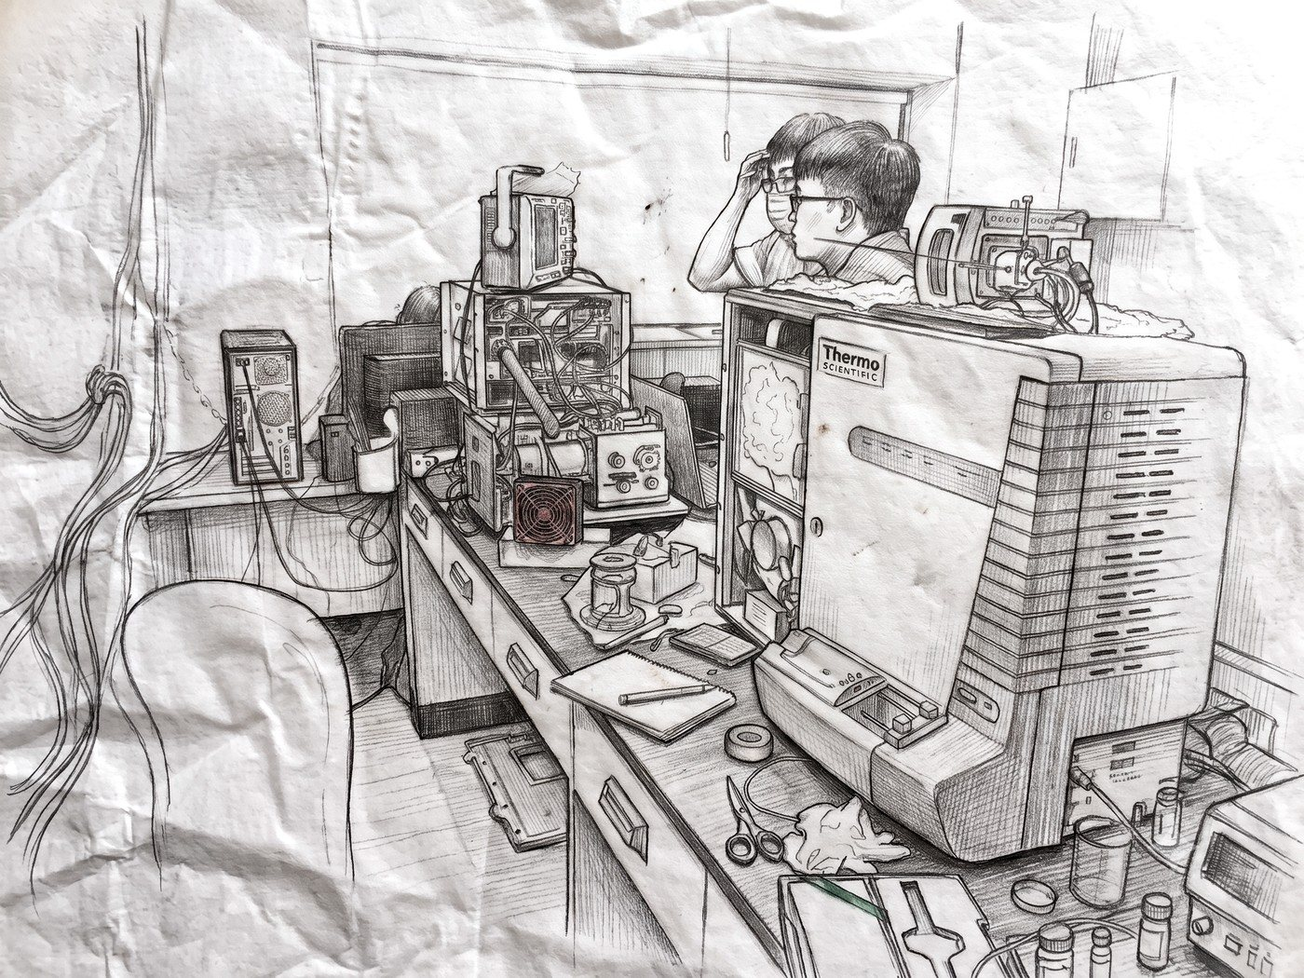
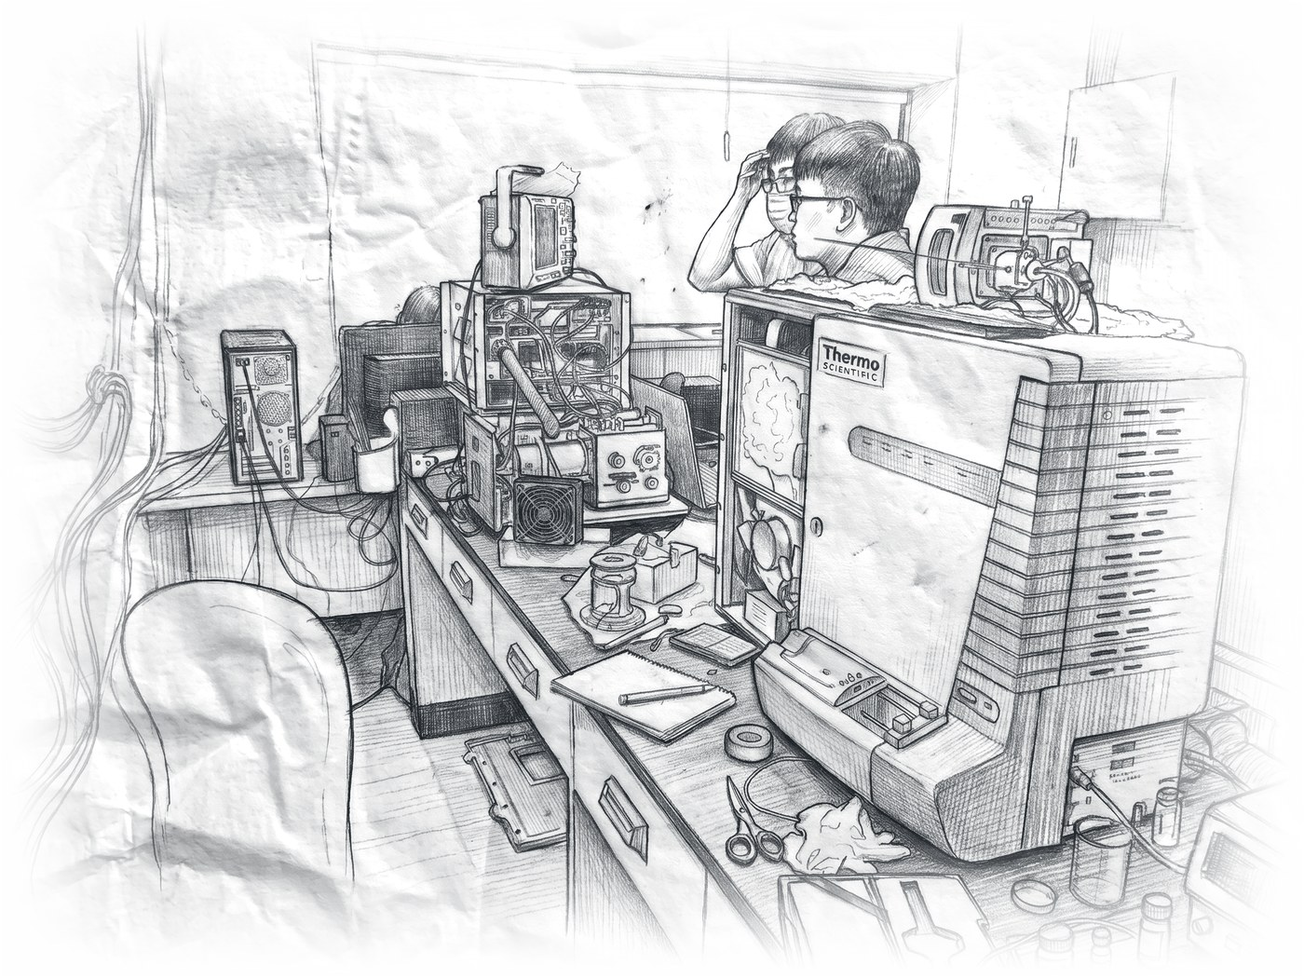
手繪主視覺攤平打光並烘入白色羽化邊；標語改「其它方法」；教學頁加入 YouTube 頻道

diff --git a/teaching.html b/teaching.html
@@ -19,7 +19,7 @@
 <link rel="preconnect" href="https://fonts.googleapis.com">
 <link rel="preconnect" href="https://fonts.gstatic.com" crossorigin>
 <link rel="stylesheet" href="https://fonts.googleapis.com/css2?family=Source+Serif+4:opsz,wght@8..60,400;8..60,600&family=Noto+Serif+TC:wght@500;600&display=swap">
-<link rel="stylesheet" href="assets/css/style.css?v=85617acf">
+<link rel="stylesheet" href="assets/css/style.css?v=cd13632d">
 <link rel="icon" href="assets/img/favicon-32.png" sizes="32x32">
 <link rel="icon" href="assets/img/logo-mark.svg" type="image/svg+xml">
 <link rel="apple-touch-icon" href="assets/img/favicon-180.png">
@@ -43,6 +43,19 @@
   <div class="table-wrap"><table class="courses"><thead><tr><th>Year</th><th>Term</th><th>Course no.</th><th>Course</th><th>Type</th></tr></thead><tbody><tr class="newyear"><td class="yr">115</td><td class="tm">1</td><td class="code">2233</td><td class="cname">Physical Chemistry</td><td><span class="ctype req">Required</span></td></tr><tr><td class="yr"></td><td class="tm">1</td><td class="code">4133</td><td class="cname">Statistical Thermodynamics</td><td><span class="ctype ele">Elective</span></td></tr><tr class="newyear"><td class="yr">114</td><td class="tm">2</td><td class="code">3283</td><td class="cname">Physical Chemistry III</td><td><span class="ctype req">Required</span></td></tr><tr><td class="yr"></td><td class="tm">2</td><td class="code">4129</td><td class="cname">Quantum Chemistry</td><td><span class="ctype ele">Elective</span></td></tr><tr><td class="yr"></td><td class="tm">1</td><td class="code">3270</td><td class="cname">Physical Chemistry II</td><td><span class="ctype req">Required</span></td></tr><tr><td class="yr"></td><td class="tm">1</td><td class="code">4133</td><td class="cname">Statistical Thermodynamics</td><td><span class="ctype ele">Elective</span></td></tr><tr class="newyear"><td class="yr">113</td><td class="tm">2</td><td class="code">1822</td><td class="cname">Physical Chemistry II</td><td><span class="ctype req">Required</span></td></tr><tr><td class="yr"></td><td class="tm">2</td><td class="code">2286</td><td class="cname">Physical Chemistry I</td><td><span class="ctype req">Required</span></td></tr><tr><td class="yr"></td><td class="tm">2</td><td class="code">4129</td><td class="cname">Quantum Chemistry</td><td><span class="ctype ele">Elective</span></td></tr><tr><td class="yr"></td><td class="tm">1</td><td class="code">1171</td><td class="cname">General Chemistry</td><td><span class="ctype req">Required</span></td></tr><tr><td class="yr"></td><td class="tm">1</td><td class="code">2248</td><td class="cname">Mathematics for Chemists</td><td><span class="ctype req">Required</span></td></tr><tr><td class="yr"></td><td class="tm">1</td><td class="code">6529</td><td class="cname">Advanced Physical Chemistry</td><td><span class="ctype ele">Elective</span></td></tr><tr class="newyear"><td class="yr">112</td><td class="tm">2</td><td class="code">2281</td><td class="cname">Physical Chemistry</td><td><span class="ctype req">Required</span></td></tr><tr><td class="yr"></td><td class="tm">2</td><td class="code">4001</td><td class="cname">Industrial Chemistry</td><td><span class="ctype ele">Elective</span></td></tr><tr><td class="yr"></td><td class="tm">2</td><td class="code">4129</td><td class="cname">Quantum Chemistry</td><td><span class="ctype ele">Elective</span></td></tr><tr><td class="yr"></td><td class="tm">1</td><td class="code">2233</td><td class="cname">Physical Chemistry</td><td><span class="ctype req">Required</span></td></tr><tr><td class="yr"></td><td class="tm">1</td><td class="code">4120</td><td class="cname">Statistical Thermodynamics</td><td><span class="ctype ele">Elective</span></td></tr><tr><td class="yr"></td><td class="tm">1</td><td class="code">6529</td><td class="cname">Advanced Physical Chemistry</td><td><span class="ctype ele">Elective</span></td></tr><tr class="newyear"><td class="yr">111</td><td class="tm">2</td><td class="code">3283</td><td class="cname">Physical Chemistry III</td><td><span class="ctype req">Required</span></td></tr><tr><td class="yr"></td><td class="tm">2</td><td class="code">4129</td><td class="cname">Quantum Chemistry</td><td><span class="ctype ele">Elective</span></td></tr><tr><td class="yr"></td><td class="tm">1</td><td class="code">3270</td><td class="cname">Physical Chemistry II</td><td><span class="ctype req">Required</span></td></tr><tr><td class="yr"></td><td class="tm">1</td><td class="code">4120</td><td class="cname">Statistical Thermodynamics</td><td><span class="ctype ele">Elective</span></td></tr><tr><td class="yr"></td><td class="tm">1</td><td class="code">6529</td><td class="cname">Advanced Physical Chemistry</td><td><span class="ctype ele">Elective</span></td></tr></tbody></table></div>
   <p class="sec-note" style="margin-top:14px">Academic years are given in the Republic of China calendar used by Taiwanese universities; year 114 corresponds to 2025–26. Laboratory courses and independent-study units are not listed.</p>
 </section>
+<section>
+  <h2>Physical chemistry on YouTube</h2>
+  <div class="yt">
+    <a class="yt-logo" href="https://www.youtube.com/@PChem" aria-label="狐獴老師的物化課 (Meerkat Teacher&#x27;s Physical Chemistry)">
+      <svg viewBox="0 0 24 24" aria-hidden="true"><path d="M23 12s0-3.6-.5-5.3a2.8 2.8 0 0 0-2-2C18.8 4.2 12 4.2 12 4.2s-6.8 0-8.5.5a2.8 2.8 0 0 0-2 2C1 8.4 1 12 1 12s0 3.6.5 5.3a2.8 2.8 0 0 0 2 2c1.7.5 8.5.5 8.5.5s6.8 0 8.5-.5a2.8 2.8 0 0 0 2-2C23 15.6 23 12 23 12z"/><path d="M9.8 15.4V8.6l5.9 3.4z" fill="#fff"/></svg>
+    </a>
+    <div>
+      <h3>狐獴老師的物化課 (Meerkat Teacher&#x27;s Physical Chemistry)</h3>
+      <p>A Mandarin-language channel where I work through physical chemistry: thermodynamics, kinetics, quantum chemistry, and the mathematics behind them. The aim is to make the subject feel less like scripture and more like a way of moving between the abstract and the real.</p>
+      <p><a class="cta" href="https://www.youtube.com/@PChem">Visit the channel →</a></p>
+    </div>
+  </div>
+</section>
 <section><h2>Teaching awards</h2><ul class="grants"><li><span class="g-title">Outstanding Mentor Award, NCHU</span><div class="g-id">2024</div></li><li><span class="g-title">Distinguished Teaching Award, NCHU</span><div class="g-id">2021</div></li></ul></section>
 </div>
 </main>
@@ -51,7 +64,7 @@
   <p>Office: Room 508, Chemistry Building · Laboratory: Room 102, Chemistry Building</p>
   <p><a href="mailto:iclu@nchu.edu.tw">iclu@nchu.edu.tw</a> ·
      Tel +886-4-2284-0411 ext. 508</p>
-  <p>Last updated 2026-07-26 ·
+  <p>Last updated 2026-07-27 ·
      <a href="https://github.com/iclulab/iclulab.github.io">Source</a></p>
 </div></footer>
 </body>

diff --git a/zh/teaching.html b/zh/teaching.html
@@ -19,7 +19,7 @@
 <link rel="preconnect" href="https://fonts.googleapis.com">
 <link rel="preconnect" href="https://fonts.gstatic.com" crossorigin>
 <link rel="stylesheet" href="https://fonts.googleapis.com/css2?family=Source+Serif+4:opsz,wght@8..60,400;8..60,600&family=Noto+Serif+TC:wght@500;600&display=swap">
-<link rel="stylesheet" href="../assets/css/style.css?v=85617acf">
+<link rel="stylesheet" href="../assets/css/style.css?v=cd13632d">
 <link rel="icon" href="../assets/img/favicon-32.png" sizes="32x32">
 <link rel="icon" href="../assets/img/logo-mark.svg" type="image/svg+xml">
 <link rel="apple-touch-icon" href="../assets/img/favicon-180.png">
@@ -43,6 +43,19 @@
   <div class="table-wrap"><table class="courses"><thead><tr><th>學年</th><th>學期</th><th>選課號碼</th><th>課程名稱</th><th>必選修</th></tr></thead><tbody><tr class="newyear"><td class="yr">115</td><td class="tm">1</td><td class="code">2233</td><td class="cname">物理化學</td><td><span class="ctype req">必修</span></td></tr><tr><td class="yr"></td><td class="tm">1</td><td class="code">4133</td><td class="cname">統計熱力學</td><td><span class="ctype ele">選修</span></td></tr><tr class="newyear"><td class="yr">114</td><td class="tm">2</td><td class="code">3283</td><td class="cname">物理化學（三）</td><td><span class="ctype req">必修</span></td></tr><tr><td class="yr"></td><td class="tm">2</td><td class="code">4129</td><td class="cname">量子化學</td><td><span class="ctype ele">選修</span></td></tr><tr><td class="yr"></td><td class="tm">1</td><td class="code">3270</td><td class="cname">物理化學（二）</td><td><span class="ctype req">必修</span></td></tr><tr><td class="yr"></td><td class="tm">1</td><td class="code">4133</td><td class="cname">統計熱力學</td><td><span class="ctype ele">選修</span></td></tr><tr class="newyear"><td class="yr">113</td><td class="tm">2</td><td class="code">1822</td><td class="cname">物理化學（二）</td><td><span class="ctype req">必修</span></td></tr><tr><td class="yr"></td><td class="tm">2</td><td class="code">2286</td><td class="cname">物理化學（一）</td><td><span class="ctype req">必修</span></td></tr><tr><td class="yr"></td><td class="tm">2</td><td class="code">4129</td><td class="cname">量子化學</td><td><span class="ctype ele">選修</span></td></tr><tr><td class="yr"></td><td class="tm">1</td><td class="code">1171</td><td class="cname">普通化學</td><td><span class="ctype req">必修</span></td></tr><tr><td class="yr"></td><td class="tm">1</td><td class="code">2248</td><td class="cname">化學數學</td><td><span class="ctype req">必修</span></td></tr><tr><td class="yr"></td><td class="tm">1</td><td class="code">6529</td><td class="cname">高等物理化學</td><td><span class="ctype ele">選修</span></td></tr><tr class="newyear"><td class="yr">112</td><td class="tm">2</td><td class="code">2281</td><td class="cname">物理化學</td><td><span class="ctype req">必修</span></td></tr><tr><td class="yr"></td><td class="tm">2</td><td class="code">4001</td><td class="cname">工業化學</td><td><span class="ctype ele">選修</span></td></tr><tr><td class="yr"></td><td class="tm">2</td><td class="code">4129</td><td class="cname">量子化學</td><td><span class="ctype ele">選修</span></td></tr><tr><td class="yr"></td><td class="tm">1</td><td class="code">2233</td><td class="cname">物理化學</td><td><span class="ctype req">必修</span></td></tr><tr><td class="yr"></td><td class="tm">1</td><td class="code">4120</td><td class="cname">統計熱力學</td><td><span class="ctype ele">選修</span></td></tr><tr><td class="yr"></td><td class="tm">1</td><td class="code">6529</td><td class="cname">高等物理化學</td><td><span class="ctype ele">選修</span></td></tr><tr class="newyear"><td class="yr">111</td><td class="tm">2</td><td class="code">3283</td><td class="cname">物理化學（三）</td><td><span class="ctype req">必修</span></td></tr><tr><td class="yr"></td><td class="tm">2</td><td class="code">4129</td><td class="cname">量子化學</td><td><span class="ctype ele">選修</span></td></tr><tr><td class="yr"></td><td class="tm">1</td><td class="code">3270</td><td class="cname">物理化學（二）</td><td><span class="ctype req">必修</span></td></tr><tr><td class="yr"></td><td class="tm">1</td><td class="code">4120</td><td class="cname">統計熱力學</td><td><span class="ctype ele">選修</span></td></tr><tr><td class="yr"></td><td class="tm">1</td><td class="code">6529</td><td class="cname">高等物理化學</td><td><span class="ctype ele">選修</span></td></tr></tbody></table></div>
   <p class="sec-note" style="margin-top:14px">不含實驗課與專題研究。</p>
 </section>
+<section>
+  <h2>YouTube 教學頻道</h2>
+  <div class="yt">
+    <a class="yt-logo" href="https://www.youtube.com/@PChem" aria-label="狐獴老師的物化課">
+      <svg viewBox="0 0 24 24" aria-hidden="true"><path d="M23 12s0-3.6-.5-5.3a2.8 2.8 0 0 0-2-2C18.8 4.2 12 4.2 12 4.2s-6.8 0-8.5.5a2.8 2.8 0 0 0-2 2C1 8.4 1 12 1 12s0 3.6.5 5.3a2.8 2.8 0 0 0 2 2c1.7.5 8.5.5 8.5.5s6.8 0 8.5-.5a2.8 2.8 0 0 0 2-2C23 15.6 23 12 23 12z"/><path d="M9.8 15.4V8.6l5.9 3.4z" fill="#fff"/></svg>
+    </a>
+    <div>
+      <h3>狐獴老師的物化課</h3>
+      <p>物化不該是天書，而是我們穿梭在抽象與現實間的華麗冒險。頻道內容涵蓋熱力學、動力學、量子化學與化學數學，把課堂上講不完的推導與直觀，用影片重新講一次。</p>
+      <p><a class="cta" href="https://www.youtube.com/@PChem">前往頻道 →</a></p>
+    </div>
+  </div>
+</section>
 <section><h2>教學獲獎</h2><ul class="grants"><li><span class="g-title">國立中興大學特優導師（112 學年度）</span><div class="g-id">2024</div></li><li><span class="g-title">國立中興大學教學特優獎（110 學年度）</span><div class="g-id">2021</div></li></ul></section>
 </div>
 </main>
@@ -51,7 +64,7 @@
   <p>辦公室：化學館 508 室 · 實驗室：化學館 102 室</p>
   <p><a href="mailto:iclu@nchu.edu.tw">iclu@nchu.edu.tw</a> ·
      Tel +886-4-2284-0411 ext. 508</p>
-  <p>最後更新 2026-07-26 ·
+  <p>最後更新 2026-07-27 ·
      <a href="https://github.com/iclulab/iclulab.github.io">原始碼</a></p>
 </div></footer>
 </body>

diff --git a/zh/index.html b/zh/index.html
@@ -19,7 +19,7 @@
 <link rel="preconnect" href="https://fonts.googleapis.com">
 <link rel="preconnect" href="https://fonts.gstatic.com" crossorigin>
 <link rel="stylesheet" href="https://fonts.googleapis.com/css2?family=Source+Serif+4:opsz,wght@8..60,400;8..60,600&family=Noto+Serif+TC:wght@500;600&display=swap">
-<link rel="stylesheet" href="../assets/css/style.css?v=85617acf">
+<link rel="stylesheet" href="../assets/css/style.css?v=cd13632d">
 <link rel="icon" href="../assets/img/favicon-32.png" sizes="32x32">
 <link rel="icon" href="../assets/img/logo-mark.svg" type="image/svg+xml">
 <link rel="apple-touch-icon" href="../assets/img/favicon-180.png">
@@ -38,7 +38,7 @@
   <div class="wrap"><div class="home-grid">
     <div>
       <p class="eyebrow">盧臆中實驗室 · 國立中興大學化學系</p>
-      <h1 class="claim">用質譜看見<br>別的方法看不見的世界</h1>
+      <h1 class="claim">用質譜看見<br>其它方法看不見的世界</h1>
       <p class="claim-lede">我們從一個基礎問題出發：離子究竟是怎麼生成的？再把這份理解變成能碰到真實問題的量測能力，包括醣類的快速篩檢、塑膠的智慧分選，以及催化循環中一閃即逝的中間體。</p>
       <div class="cta-row">
         <a class="cta" href="research.html">我們在做什麼 →</a>
@@ -46,7 +46,7 @@
       </div>
     </div>
     <figure class="hero-shot">
-      <img src="../assets/img/hero.jpg?v=ecc005bf" alt="光學桌上的客製化質譜進樣系統">
+      <img src="../assets/img/hero.jpg?v=6dc2c8fa" alt="光學桌上的客製化質譜進樣系統">
     </figure>
   </div></div>
 </div>
@@ -131,7 +131,7 @@
   <p>辦公室：化學館 508 室 · 實驗室：化學館 102 室</p>
   <p><a href="mailto:iclu@nchu.edu.tw">iclu@nchu.edu.tw</a> ·
      Tel +886-4-2284-0411 ext. 508</p>
-  <p>最後更新 2026-07-26 ·
+  <p>最後更新 2026-07-27 ·
      <a href="https://github.com/iclulab/iclulab.github.io">原始碼</a></p>
 </div></footer>
 </body>

diff --git a/assets/css/style.css b/assets/css/style.css
@@ -137,13 +137,15 @@ nav.main a.lang:hover {
 .page-hero .hero-spectrum { height: 84px; opacity: .13; }
 /* 主視覺是實驗室的鉛筆手繪（已把紙張黃調校回近白）。邊緣用遮罩淡出成頁面底色，
    紙的白與頁面的白接在一起，不會像一張圖貼在版面上。 */
+/* 圖檔本身已把四邊烘成純白羽化，所以這裡不再加遮罩，
+   只留一層很淡的收邊，避免縮放時邊界重新浮現。 */
 .hero-shot { margin: 0; }
 .hero-shot img {
   display: block; width: 100%; aspect-ratio: 4 / 3; object-fit: cover;
   -webkit-mask-image:
-    radial-gradient(120% 120% at 50% 48%, #000 50%, rgba(0, 0, 0, .55) 78%, transparent 100%);
+    radial-gradient(135% 135% at 50% 50%, #000 72%, transparent 100%);
   mask-image:
-    radial-gradient(120% 120% at 50% 48%, #000 50%, rgba(0, 0, 0, .55) 78%, transparent 100%);
+    radial-gradient(135% 135% at 50% 50%, #000 72%, transparent 100%);
 }
 @media (prefers-color-scheme: dark) {
   /* 手繪是白底，深色模式反相成白線黑底才不會變成一塊亮白 */
@@ -369,6 +371,14 @@ ul.grants .g-zh { font-size: 0.9rem; color: var(--ink-soft); }
 .lb-prev, .lb-next { top: 50%; transform: translateY(-50%); font-size: 3rem; }
 .lb-prev { left: 6px; }
 .lb-next { right: 6px; }
+
+/* ---------- YouTube 頻道 ---------- */
+.yt { display: grid; grid-template-columns: 56px 1fr; gap: 20px; align-items: start; }
+.yt-logo { display: block; line-height: 0; }
+.yt-logo svg { width: 56px; height: 56px; fill: #ff0033; }
+.yt-logo:hover svg { fill: #d4002a; }
+.yt h3 { margin-bottom: 6px; }
+.yt p { margin-bottom: 12px; }
 
 /* ---------- 開課紀錄表 ---------- */
 .table-wrap { overflow-x: auto; -webkit-overflow-scrolling: touch; }

diff --git a/index.html b/index.html
@@ -19,7 +19,7 @@
 <link rel="preconnect" href="https://fonts.googleapis.com">
 <link rel="preconnect" href="https://fonts.gstatic.com" crossorigin>
 <link rel="stylesheet" href="https://fonts.googleapis.com/css2?family=Source+Serif+4:opsz,wght@8..60,400;8..60,600&family=Noto+Serif+TC:wght@500;600&display=swap">
-<link rel="stylesheet" href="assets/css/style.css?v=85617acf">
+<link rel="stylesheet" href="assets/css/style.css?v=cd13632d">
 <link rel="icon" href="assets/img/favicon-32.png" sizes="32x32">
 <link rel="icon" href="assets/img/logo-mark.svg" type="image/svg+xml">
 <link rel="apple-touch-icon" href="assets/img/favicon-180.png">
@@ -46,7 +46,7 @@
       </div>
     </div>
     <figure class="hero-shot">
-      <img src="assets/img/hero.jpg?v=ecc005bf" alt="Custom-built mass spectrometry inlet on the optical table">
+      <img src="assets/img/hero.jpg?v=6dc2c8fa" alt="Custom-built mass spectrometry inlet on the optical table">
     </figure>
   </div></div>
 </div>
@@ -131,7 +131,7 @@
   <p>Office: Room 508, Chemistry Building · Laboratory: Room 102, Chemistry Building</p>
   <p><a href="mailto:iclu@nchu.edu.tw">iclu@nchu.edu.tw</a> ·
      Tel +886-4-2284-0411 ext. 508</p>
-  <p>Last updated 2026-07-26 ·
+  <p>Last updated 2026-07-27 ·
      <a href="https://github.com/iclulab/iclulab.github.io">Source</a></p>
 </div></footer>
 </body>

diff --git a/publications.html b/publications.html
@@ -19,7 +19,7 @@
 <link rel="preconnect" href="https://fonts.googleapis.com">
 <link rel="preconnect" href="https://fonts.gstatic.com" crossorigin>
 <link rel="stylesheet" href="https://fonts.googleapis.com/css2?family=Source+Serif+4:opsz,wght@8..60,400;8..60,600&family=Noto+Serif+TC:wght@500;600&display=swap">
-<link rel="stylesheet" href="assets/css/style.css?v=85617acf">
+<link rel="stylesheet" href="assets/css/style.css?v=cd13632d">
 <link rel="icon" href="assets/img/favicon-32.png" sizes="32x32">
 <link rel="icon" href="assets/img/logo-mark.svg" type="image/svg+xml">
 <link rel="apple-touch-icon" href="assets/img/favicon-180.png">
@@ -418,7 +418,7 @@ document.querySelectorAll('.filters button').forEach(b => b.addEventListener('cl
   <p>Office: Room 508, Chemistry Building · Laboratory: Room 102, Chemistry Building</p>
   <p><a href="mailto:iclu@nchu.edu.tw">iclu@nchu.edu.tw</a> ·
      Tel +886-4-2284-0411 ext. 508</p>
-  <p>Last updated 2026-07-26 ·
+  <p>Last updated 2026-07-27 ·
      <a href="https://github.com/iclulab/iclulab.github.io">Source</a></p>
 </div></footer>
 </body>

diff --git a/zh/publications.html b/zh/publications.html
@@ -19,7 +19,7 @@
 <link rel="preconnect" href="https://fonts.googleapis.com">
 <link rel="preconnect" href="https://fonts.gstatic.com" crossorigin>
 <link rel="stylesheet" href="https://fonts.googleapis.com/css2?family=Source+Serif+4:opsz,wght@8..60,400;8..60,600&family=Noto+Serif+TC:wght@500;600&display=swap">
-<link rel="stylesheet" href="../assets/css/style.css?v=85617acf">
+<link rel="stylesheet" href="../assets/css/style.css?v=cd13632d">
 <link rel="icon" href="../assets/img/favicon-32.png" sizes="32x32">
 <link rel="icon" href="../assets/img/logo-mark.svg" type="image/svg+xml">
 <link rel="apple-touch-icon" href="../assets/img/favicon-180.png">
@@ -418,7 +418,7 @@ document.querySelectorAll('.filters button').forEach(b => b.addEventListener('cl
   <p>辦公室：化學館 508 室 · 實驗室：化學館 102 室</p>
   <p><a href="mailto:iclu@nchu.edu.tw">iclu@nchu.edu.tw</a> ·
      Tel +886-4-2284-0411 ext. 508</p>
-  <p>最後更新 2026-07-26 ·
+  <p>最後更新 2026-07-27 ·
      <a href="https://github.com/iclulab/iclulab.github.io">原始碼</a></p>
 </div></footer>
 </body>

diff --git a/life.html b/life.html
@@ -19,7 +19,7 @@
 <link rel="preconnect" href="https://fonts.googleapis.com">
 <link rel="preconnect" href="https://fonts.gstatic.com" crossorigin>
 <link rel="stylesheet" href="https://fonts.googleapis.com/css2?family=Source+Serif+4:opsz,wght@8..60,400;8..60,600&family=Noto+Serif+TC:wght@500;600&display=swap">
-<link rel="stylesheet" href="assets/css/style.css?v=85617acf">
+<link rel="stylesheet" href="assets/css/style.css?v=cd13632d">
 <link rel="icon" href="assets/img/favicon-32.png" sizes="32x32">
 <link rel="icon" href="assets/img/logo-mark.svg" type="image/svg+xml">
 <link rel="apple-touch-icon" href="assets/img/favicon-180.png">
@@ -138,7 +138,7 @@
   <p>Office: Room 508, Chemistry Building · Laboratory: Room 102, Chemistry Building</p>
   <p><a href="mailto:iclu@nchu.edu.tw">iclu@nchu.edu.tw</a> ·
      Tel +886-4-2284-0411 ext. 508</p>
-  <p>Last updated 2026-07-26 ·
+  <p>Last updated 2026-07-27 ·
      <a href="https://github.com/iclulab/iclulab.github.io">Source</a></p>
 </div></footer>
 </body>

diff --git a/research.html b/research.html
@@ -19,7 +19,7 @@
 <link rel="preconnect" href="https://fonts.googleapis.com">
 <link rel="preconnect" href="https://fonts.gstatic.com" crossorigin>
 <link rel="stylesheet" href="https://fonts.googleapis.com/css2?family=Source+Serif+4:opsz,wght@8..60,400;8..60,600&family=Noto+Serif+TC:wght@500;600&display=swap">
-<link rel="stylesheet" href="assets/css/style.css?v=85617acf">
+<link rel="stylesheet" href="assets/css/style.css?v=cd13632d">
 <link rel="icon" href="assets/img/favicon-32.png" sizes="32x32">
 <link rel="icon" href="assets/img/logo-mark.svg" type="image/svg+xml">
 <link rel="apple-touch-icon" href="assets/img/favicon-180.png">
@@ -109,7 +109,7 @@
   <p>Office: Room 508, Chemistry Building · Laboratory: Room 102, Chemistry Building</p>
   <p><a href="mailto:iclu@nchu.edu.tw">iclu@nchu.edu.tw</a> ·
      Tel +886-4-2284-0411 ext. 508</p>
-  <p>Last updated 2026-07-26 ·
+  <p>Last updated 2026-07-27 ·
      <a href="https://github.com/iclulab/iclulab.github.io">Source</a></p>
 </div></footer>
 </body>

diff --git a/zh/life.html b/zh/life.html
@@ -19,7 +19,7 @@
 <link rel="preconnect" href="https://fonts.googleapis.com">
 <link rel="preconnect" href="https://fonts.gstatic.com" crossorigin>
 <link rel="stylesheet" href="https://fonts.googleapis.com/css2?family=Source+Serif+4:opsz,wght@8..60,400;8..60,600&family=Noto+Serif+TC:wght@500;600&display=swap">
-<link rel="stylesheet" href="../assets/css/style.css?v=85617acf">
+<link rel="stylesheet" href="../assets/css/style.css?v=cd13632d">
 <link rel="icon" href="../assets/img/favicon-32.png" sizes="32x32">
 <link rel="icon" href="../assets/img/logo-mark.svg" type="image/svg+xml">
 <link rel="apple-touch-icon" href="../assets/img/favicon-180.png">
@@ -138,7 +138,7 @@
   <p>辦公室：化學館 508 室 · 實驗室：化學館 102 室</p>
   <p><a href="mailto:iclu@nchu.edu.tw">iclu@nchu.edu.tw</a> ·
      Tel +886-4-2284-0411 ext. 508</p>
-  <p>最後更新 2026-07-26 ·
+  <p>最後更新 2026-07-27 ·
      <a href="https://github.com/iclulab/iclulab.github.io">原始碼</a></p>
 </div></footer>
 </body>

diff --git a/zh/research.html b/zh/research.html
@@ -19,7 +19,7 @@
 <link rel="preconnect" href="https://fonts.googleapis.com">
 <link rel="preconnect" href="https://fonts.gstatic.com" crossorigin>
 <link rel="stylesheet" href="https://fonts.googleapis.com/css2?family=Source+Serif+4:opsz,wght@8..60,400;8..60,600&family=Noto+Serif+TC:wght@500;600&display=swap">
-<link rel="stylesheet" href="../assets/css/style.css?v=85617acf">
+<link rel="stylesheet" href="../assets/css/style.css?v=cd13632d">
 <link rel="icon" href="../assets/img/favicon-32.png" sizes="32x32">
 <link rel="icon" href="../assets/img/logo-mark.svg" type="image/svg+xml">
 <link rel="apple-touch-icon" href="../assets/img/favicon-180.png">
@@ -109,7 +109,7 @@
   <p>辦公室：化學館 508 室 · 實驗室：化學館 102 室</p>
   <p><a href="mailto:iclu@nchu.edu.tw">iclu@nchu.edu.tw</a> ·
      Tel +886-4-2284-0411 ext. 508</p>
-  <p>最後更新 2026-07-26 ·
+  <p>最後更新 2026-07-27 ·
      <a href="https://github.com/iclulab/iclulab.github.io">原始碼</a></p>
 </div></footer>
 </body>

diff --git a/404.html b/404.html
@@ -19,7 +19,7 @@
 <link rel="preconnect" href="https://fonts.googleapis.com">
 <link rel="preconnect" href="https://fonts.gstatic.com" crossorigin>
 <link rel="stylesheet" href="https://fonts.googleapis.com/css2?family=Source+Serif+4:opsz,wght@8..60,400;8..60,600&family=Noto+Serif+TC:wght@500;600&display=swap">
-<link rel="stylesheet" href="assets/css/style.css?v=85617acf">
+<link rel="stylesheet" href="assets/css/style.css?v=cd13632d">
 <link rel="icon" href="assets/img/favicon-32.png" sizes="32x32">
 <link rel="icon" href="assets/img/logo-mark.svg" type="image/svg+xml">
 <link rel="apple-touch-icon" href="assets/img/favicon-180.png">
@@ -39,7 +39,7 @@
   <p>Office: Room 508, Chemistry Building · Laboratory: Room 102, Chemistry Building</p>
   <p><a href="mailto:iclu@nchu.edu.tw">iclu@nchu.edu.tw</a> ·
      Tel +886-4-2284-0411 ext. 508</p>
-  <p>Last updated 2026-07-26 ·
+  <p>Last updated 2026-07-27 ·
      <a href="https://github.com/iclulab/iclulab.github.io">Source</a></p>
 </div></footer>
 </body>
